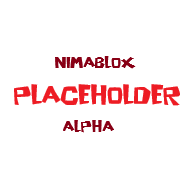
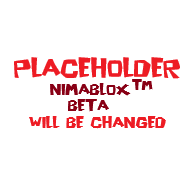
early beta

Changed region(s): [[0.0526, 0.2895, 0.9474, 0.7105]]

diff --git a/nimablox/homepage.html b/nimablox/homepage.html
@@ -7,12 +7,12 @@
     <style>
         @import url('https://fonts.googleapis.com/css?family=Source+Sans+Pro:400,600,700');
         :root {
-            --roblox-blue: #0076a8;
-            --roblox-dark-blue: #006085;
-            --roblox-orange: #ff5f00;
+            --roblox-blue: #27C5F5;
+            --roblox-dark-blue: #07368C;
+            --roblox-orange: #FFA600;
             --roblox-gray: #f2f2f2;
             --roblox-light-gray: #e6e6e6;
-            --roblox-border: #cccccc;
+            --roblox-border: #b5b5b5;
         }
 
         body {
@@ -22,7 +22,7 @@
         }
 
         .navbar {
-            background-color: white;
+            background-color: light grey;
             border-bottom: 1px solid var(--roblox-border);
             padding: 0 10px;
             display: flex;
@@ -48,8 +48,8 @@
 
         .navbar .search-bar input {
             width: 100%;
-            padding: 8px;
-            border: 1px solid var(--roblox-border);
+            padding: 10px;
+            border: 2px solid var(--roblox-border);
         }
         
         .search-dropdown {
@@ -57,7 +57,7 @@
             top: 100%;
             left: 0;
             right: 0;
-            background-color: white;
+            background-color: grey;
             border: 1px solid var(--roblox-border);
             box-shadow: 0 4px 8px rgba(0,0,0,0.1);
             z-index: 10;
@@ -69,7 +69,7 @@
         }
 
         .search-dropdown.active {
-            max-height: 300px;
+            max-height: 500px;
             overflow-y: auto;
             opacity: 1;
             visibility: visible;
@@ -127,9 +127,9 @@
             top: 100%;
             right: 0;
             width: 250px;
-            background-color: white;
-            border: 1px solid var(--roblox-border);
-            box-shadow: 0 4px 8px rgba(0,0,0,0.1);
+            background-color: grey;
+            border: 2px solid var(--roblox-border);
+            box-shadow: 0 4px 10px rgba(0,0,0,0.1);
             z-index: 10;
             max-height: 0;
             overflow: hidden;
@@ -141,7 +141,7 @@
         .notification-dropdown.active {
             max-height: 200px;
             overflow-y: auto;
-            opacity: 1;
+            opacity: 0.60;
             visibility: visible;
         }
 
@@ -153,7 +153,7 @@
 
         .navbar .user-menu .currency {
             padding: 10px;
-            color: gray;
+            color: black;
         }
 
         .navbar .user-menu .robux-balance {
@@ -262,7 +262,7 @@
 
     <div class="navbar">
         <div class="logo">
-            <img src="images/boblox-classic (1).png" alt="My Custom Logo">
+            <img src="images/boblox-classic (1).png" alt="NIMABLOX ☺ early beta logo">
         </div>
         <div class="search-bar">
             <input type="text" id="searchInput" placeholder="Search">
@@ -282,7 +282,7 @@
                 </div>
             </div>
             <div class="currency">
-                <span class="robux-balance">10 R$</span>
+                <span class="robux-balance">100 B(eta)$</span>
             </div>
         </div>
     </div>
@@ -315,8 +315,8 @@
                         <div class="players">0 Players</div>
                     </div>
                 </div>
-                <div class="game-card" data-title="Super Mario Blox">
-                    <img src="images/costume4.png" alt="Super Mario Blox Thumbnail">
+                <div class="game-card" data-title="tetris extreme">
+                    <img src="images/costume4.png" alt="tetris extreme Thumbnail">
                     <div class="game-card-info">
                         <div class="title">Super Mario Blox</div>
                         <div class="players">0 Players</div>
@@ -344,7 +344,7 @@
     <div id="gameModal" class="modal">
         <div class="modal-content">
             <span class="modal-close">&times;</span>
-            <p>BRB just working on some code</p>
+            <p>WIP! Just working on some code.</p>
         </div>
     </div>
 
